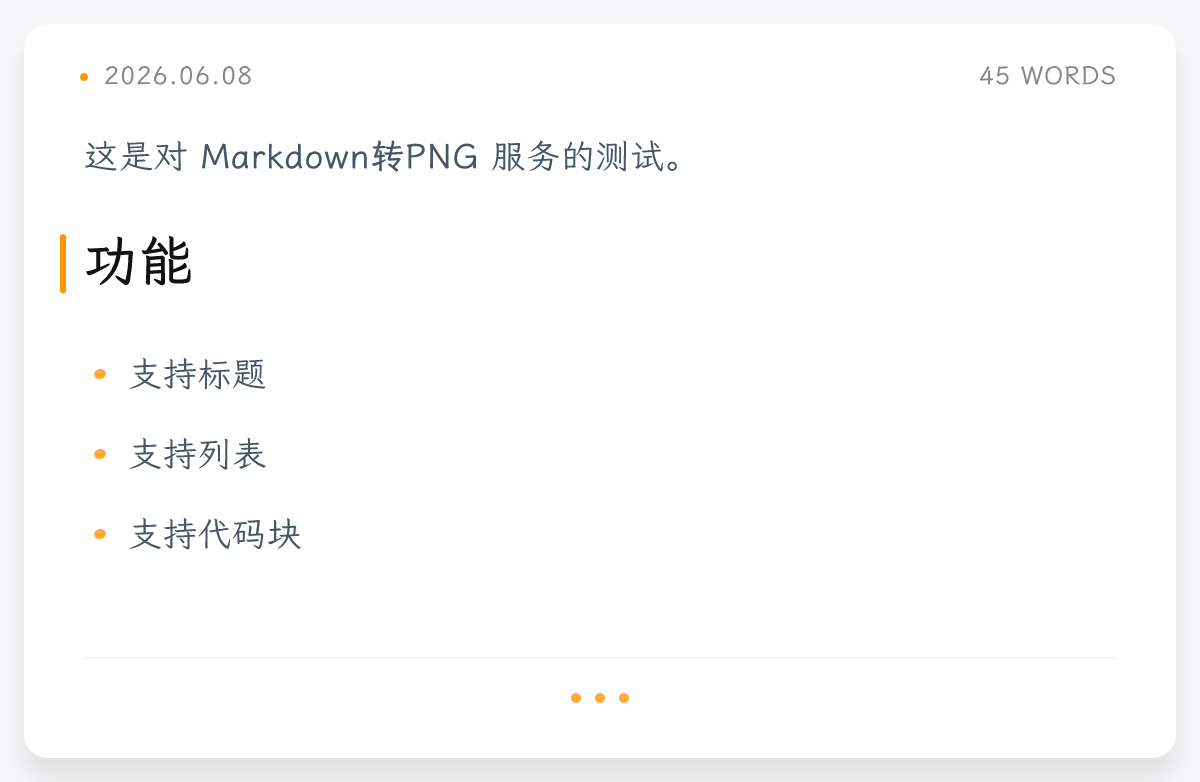
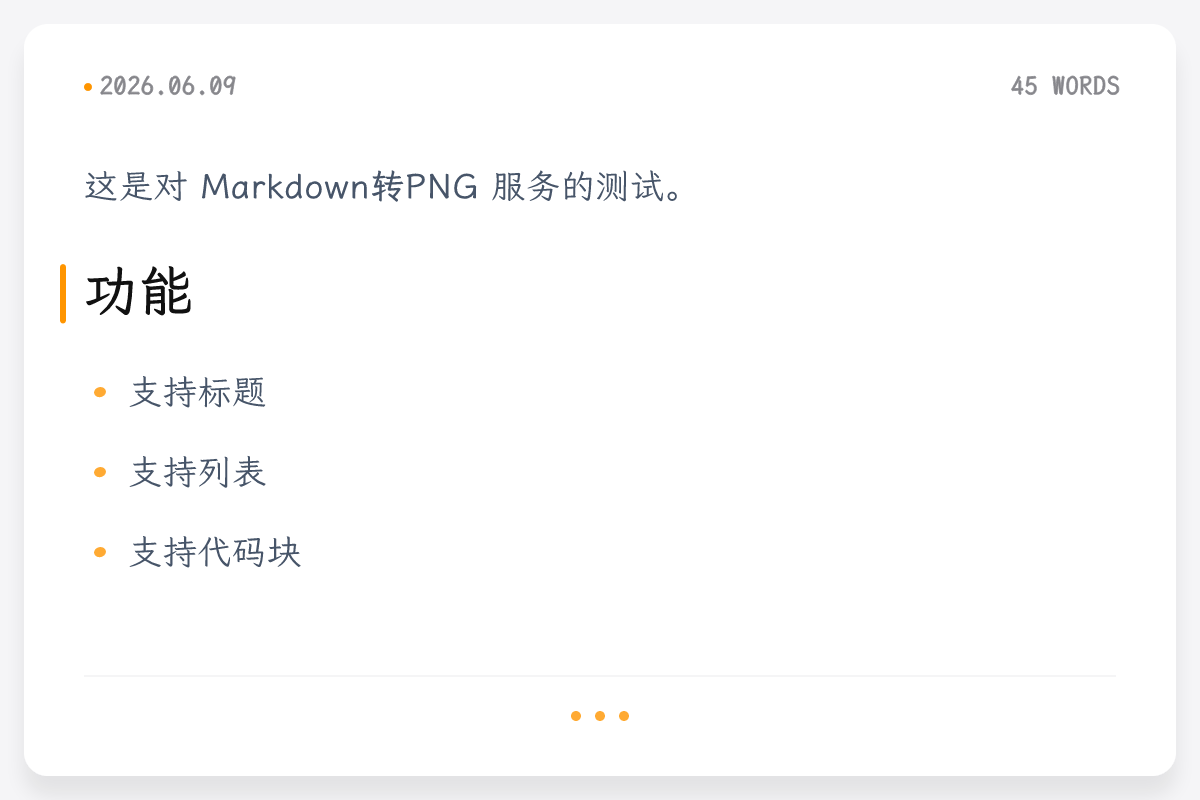
优化数学公式

diff --git a/src/main.rs b/src/main.rs
@@ -660,8 +660,11 @@ impl SvgBuilder {
             TextStyle::Math,
         )];
 
+        // Single source of truth: MathJax font_size matches our BODY_FONT_SIZE.
+        // MathJax viewBox uses ~1000 internal units per em, so scale_factor = font_size / 1000.
+        let mj_font_size = BODY_FONT_SIZE as f64;
         let options = mathjax_svg_rs::Options {
-            font_size: 24.0,
+            font_size: mj_font_size,
             horizontal_align: mathjax_svg_rs::HorizontalAlign::Center,
         };
         let Ok(math_svg) = render_math_svg_cached(latex.trim(), &options) else {
@@ -674,19 +677,37 @@ impl SvgBuilder {
             return;
         };
 
-        let target_h = 54.0f32.max((vb_h / 1000.0) * 42.0);
-        let natural_w = target_h * vb_w / vb_h;
-        let target_w = natural_w.min(max_w);
-        let target_h = target_w * vb_h / vb_w;
-        let x = PADDING + (area_w - target_w) / 2.0;
-        let y = self.y;
+        let scale_factor = BODY_FONT_SIZE / 1000.0;
+
+        // Natural size at the canonical scale.
+        let natural_h = vb_h * scale_factor;
+        let natural_w = vb_w * scale_factor;
+
+        // Shrink proportionally only when the formula overflows the available width.
+        let (render_w, render_h) = if natural_w > max_w {
+            let shrink = max_w / natural_w;
+            (max_w, natural_h * shrink)
+        } else {
+            (natural_w, natural_h)
+        };
+
+        // Vertical rhythm guard: if the formula is shorter than one LINE_HEIGHT,
+        // keep the block at LINE_HEIGHT and vertically centre the SVG inside it.
+        let (svg_y, block_h) = if render_h < LINE_HEIGHT {
+            let offset = (LINE_HEIGHT - render_h) / 2.0;
+            (self.y + offset, LINE_HEIGHT)
+        } else {
+            (self.y, render_h)
+        };
+
+        let x = PADDING + (area_w - render_w) / 2.0;
         let inner = svg_inner_content(&math_svg).unwrap_or(math_svg.as_str());
 
         self.elems.push(format!(
-            "<svg x=\"{x}\" y=\"{y}\" width=\"{target_w}\" height=\"{target_h}\" viewBox=\"{vb_x} {vb_y} {vb_w} {vb_h}\" color=\"#0f766e\">{inner}</svg>"
+            "<svg x=\"{x}\" y=\"{svg_y}\" width=\"{render_w}\" height=\"{render_h}\" viewBox=\"{vb_x} {vb_y} {vb_w} {vb_h}\" color=\"#0f766e\">{inner}</svg>"
         ));
 
-        self.y += target_h + 36.0;
+        self.y += block_h + 36.0;
     }
 
     // ── Code block ────────────────────────────────────────────────────